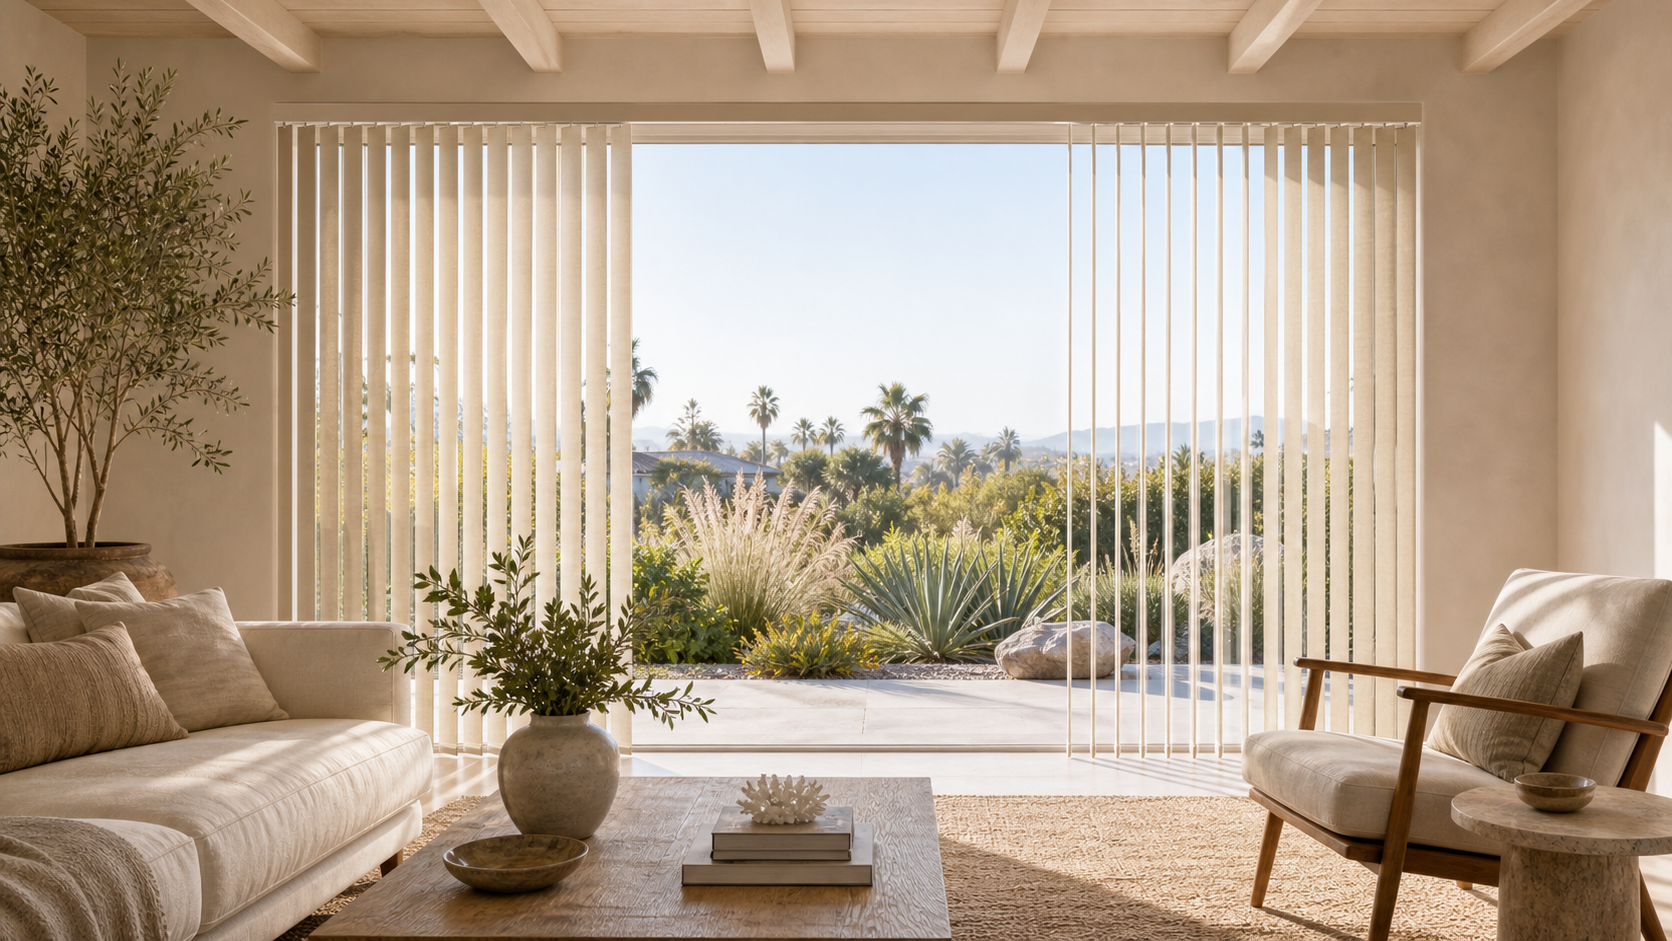
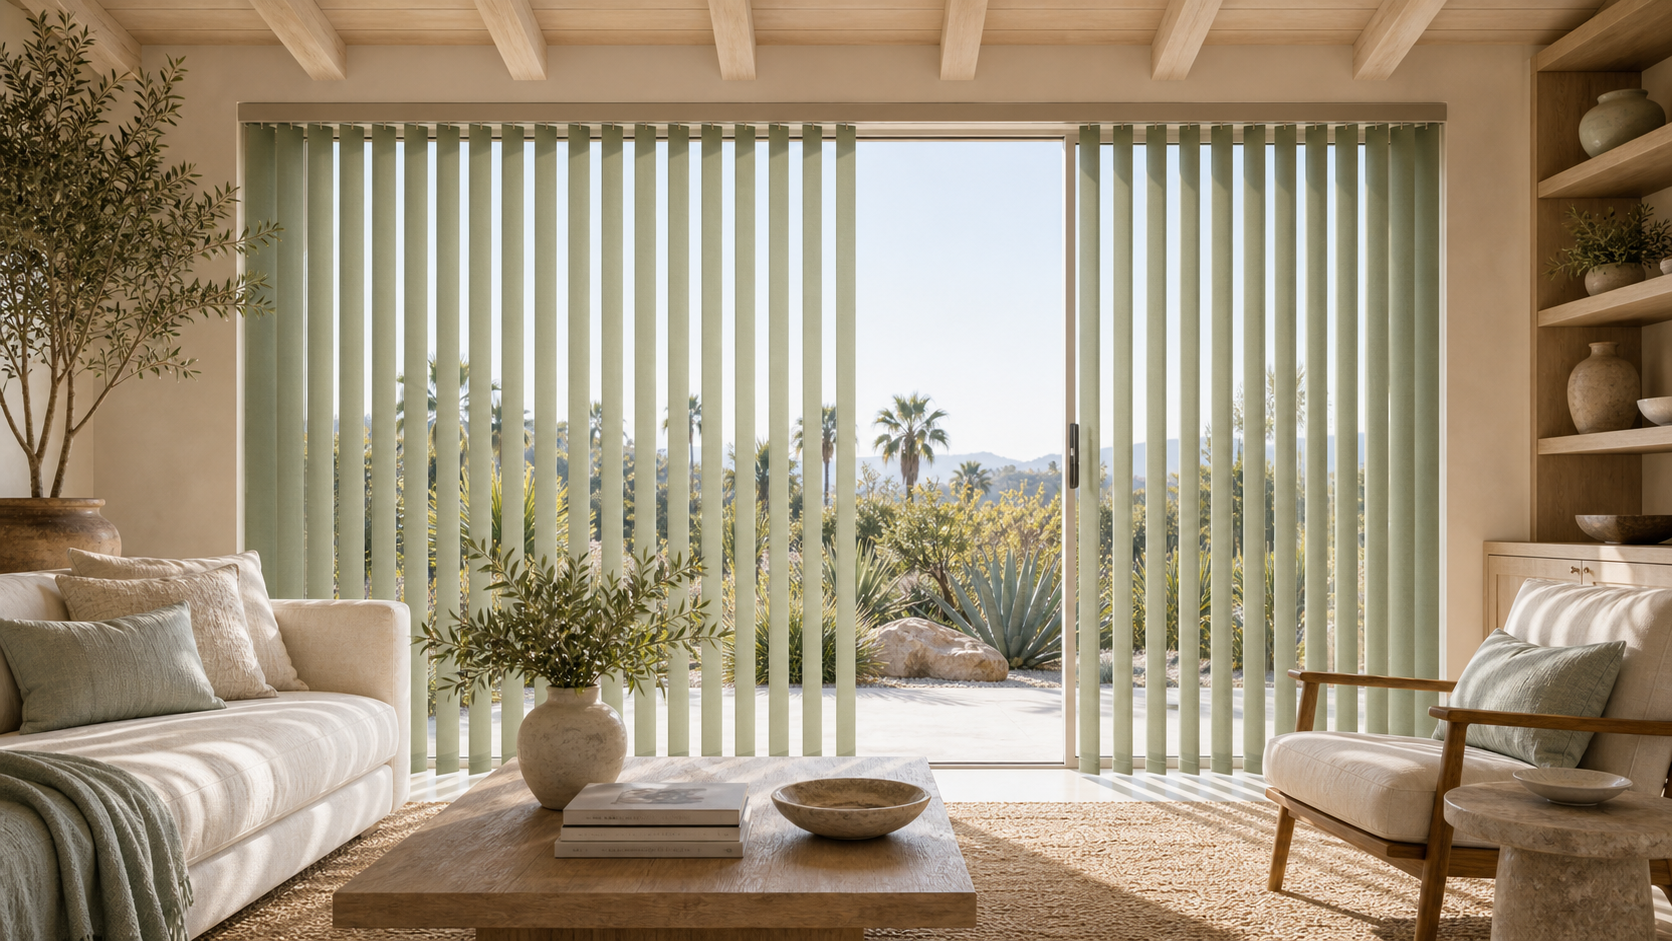
Stack homepage photo flow

diff --git a/src/components/PageSections.tsx b/src/components/PageSections.tsx
@@ -784,6 +784,8 @@ function HomePageSections({ page, commercialMode }: { page: SitePage; commercial
   const installedPhotos = commercialMode ? commercialInstalledPortfolioPhotos : installedPortfolioPhotos;
   const sections = commercialMode ? commercialHomeSections : page.sections;
   const heroSlides = commercialMode ? commercialHomeHeroSlides() : homeHeroSlides(page);
+  const heroMediaSlides = commercialMode ? heroSlides : heroSlides.slice(0, 1);
+  const residentialPhotoFlowSlides = commercialMode ? [] : heroSlides.slice(1);
   const heroTitle = commercialMode ? "Commercial shade systems for every workspace" : "Proudly serving Ventura County for the last 30 years";
   const heroCta = commercialMode ? "Schedule a Meeting" : "Book your Free In-home Consultation";
   const heroHref = commercialMode ? "/commercial-window-coverings/" : "/book-consultation/";
@@ -792,7 +794,7 @@ function HomePageSections({ page, commercialMode }: { page: SitePage; commercial
     <>
       <section className="home-editorial">
         <div className="home-editorial-panel">
-          <HomeHeroCarousel slides={heroSlides} />
+          <HomeHeroCarousel slides={heroMediaSlides} />
           <div className="home-hero-overlay">
             <h1 className="home-intro">{heroTitle}</h1>
             <div className="home-hero-actions">
@@ -804,45 +806,60 @@ function HomePageSections({ page, commercialMode }: { page: SitePage; commercial
         </div>
       </section>
 
-      <section className="portfolio-scroll" aria-label={commercialMode ? "805 Commercial portfolio scenes" : "805 Shutters portfolio scenes"}>
-        {stories.map((story, index) => (
-          <article
-            className={`portfolio-story-panel${story.tone === "bright" ? " portfolio-story-panel--bright" : ""}`}
-            key={story.title}
-          >
-            <div className="portfolio-story-media">
-              {story.video ? (
-                <video
-                  aria-label={story.imageAlt}
-                  autoPlay
-                  loop
-                  muted
-                  playsInline
-                  poster={story.image}
-                  preload={index === 0 ? "auto" : "metadata"}
-                >
-                  <source src={story.video} type="video/mp4" />
-                </video>
-              ) : (
-                <img
-                  src={story.image}
-                  alt={story.imageAlt}
-                  width={story.imageWidth}
-                  height={story.imageHeight}
-                  loading={index === 0 ? "eager" : "lazy"}
-                  decoding="async"
-                />
-              )}
-            </div>
-            <div className="portfolio-story-copy">
-              <p>{story.eyebrow}</p>
-              <h2>{story.title}</h2>
-              <span>{story.body}</span>
-              <Link href={story.href}>Explore {story.eyebrow}</Link>
-            </div>
-          </article>
-        ))}
-      </section>
+      {commercialMode ? (
+        <section className="portfolio-scroll" aria-label="805 Commercial portfolio scenes">
+          {stories.map((story, index) => (
+            <article
+              className={`portfolio-story-panel${story.tone === "bright" ? " portfolio-story-panel--bright" : ""}`}
+              key={story.title}
+            >
+              <div className="portfolio-story-media">
+                {story.video ? (
+                  <video
+                    aria-label={story.imageAlt}
+                    autoPlay
+                    loop
+                    muted
+                    playsInline
+                    poster={story.image}
+                    preload={index === 0 ? "auto" : "metadata"}
+                  >
+                    <source src={story.video} type="video/mp4" />
+                  </video>
+                ) : (
+                  <img
+                    src={story.image}
+                    alt={story.imageAlt}
+                    width={story.imageWidth}
+                    height={story.imageHeight}
+                    loading={index === 0 ? "eager" : "lazy"}
+                    decoding="async"
+                  />
+                )}
+              </div>
+              <div className="portfolio-story-copy">
+                <p>{story.eyebrow}</p>
+                <h2>{story.title}</h2>
+                <span>{story.body}</span>
+                <Link href={story.href}>Explore {story.eyebrow}</Link>
+              </div>
+            </article>
+          ))}
+        </section>
+      ) : (
+        <section className="home-photo-flow" aria-label="805 Shutters homepage photo flow">
+          {residentialPhotoFlowSlides.map((slide, index) => (
+            <figure className="home-photo-flow-item" key={slide.label || slide.image}>
+              <img
+                src={slide.image}
+                alt={slide.imageAlt}
+                loading={index < 2 ? "eager" : "lazy"}
+                decoding="async"
+              />
+            </figure>
+          ))}
+        </section>
+      )}
 
       <section className="installed-portfolio">
         <div className="content-wrap installed-portfolio-head">

diff --git a/src/components/HomeHeroCarousel.tsx b/src/components/HomeHeroCarousel.tsx
@@ -54,18 +54,6 @@ export function HomeHeroCarousel({ slides }: HomeHeroCarouselProps) {
   }, []);
 
   useEffect(() => {
-    if (slides.length < 2 || freezeOnFirstSlide) {
-      return;
-    }
-
-    const interval = window.setInterval(() => {
-      setActiveIndex((index) => (index + 1) % slides.length);
-    }, 5000);
-
-    return () => window.clearInterval(interval);
-  }, [freezeOnFirstSlide, slides.length]);
-
-  useEffect(() => {
     const videos = carouselRef.current?.querySelectorAll("video");
 
     videos?.forEach((video) => {

diff --git a/src/app/globals.css b/src/app/globals.css
@@ -1810,6 +1810,22 @@ body.commercial-mode .home-hero-actions .button.primary {
   color: rgba(255, 255, 255, 0.88);
 }
 
+.home-photo-flow {
+  display: grid;
+  background: #0d0c0a;
+}
+
+.home-photo-flow-item {
+  margin: 0;
+  background: #11100e;
+}
+
+.home-photo-flow-item img {
+  display: block;
+  width: 100%;
+  height: auto;
+}
+
 .installed-portfolio {
   padding: clamp(48px, 7vw, 86px) 0;
   background: var(--paper);

diff --git a/docs/ai-homepage-photo-prompts.md b/docs/ai-homepage-photo-prompts.md
@@ -21,10 +21,12 @@ Style for every image:
 - Leave clean center space for HTML overlay text.
 - Wide horizontal hero composition, 16:9 or wider.
 
-## Final Homepage Flow Assets
+## Final Homepage Photo Flow Assets
 
-Final hero-carousel assets live in `public/images/homepage-flow/` and are used
-in this exact residential homepage order:
+Final stacked photo-flow assets live in `public/images/homepage-flow/` and are
+used in this exact residential homepage order. The original home photo remains
+the top hero image; the remaining treatments stack below it with no timed photo
+rotation.
 
 | Order | Slide | File |
 | --- | --- | --- |
@@ -55,13 +57,13 @@ Existing AI source notes:
 New June 13, 2026 generated prompts:
 
 Vertical Blinds:
-Ultra realistic luxury editorial interior photography of a bright Ventura/coastal California living room with a wide sliding glass patio door and refined garden view. Elegant cream vertical blinds with fabric vanes, partially open so the vertical product structure is unmistakable. Wide horizontal 16:9 hero composition with clean center overlay space. Warm natural California daylight, warm neutrals, cream plaster, pale oak, soft linen. No text, logos, people, animals, watermarks, posters, or graphic layouts. Product must read as vertical blinds, not drapery or shutters.
+Ultra realistic luxury editorial interior photography of a bright Ventura/coastal California living room with a wide sliding glass patio door and refined garden view. Muted sage-green vertical blinds with fabric vanes, partially open so the vertical product structure is unmistakable. Wide horizontal 16:9 hero composition with clean center overlay space. Warm natural California daylight, warm neutrals, cream plaster, pale oak, soft linen. No text, logos, people, animals, watermarks, posters, or graphic layouts. Product must read as vertical blinds, not drapery or shutters.
 
 Mini Blinds:
-Ultra realistic luxury editorial interior photography of a refined Ventura/coastal California home office with tall windows and a distant garden or hillside view. Slim white aluminum mini blinds with narrow horizontal slats, tilted to filter sunlight; the narrow mini-blind scale must be clear. Wide horizontal 16:9 hero composition with clean center overlay space. Bright warm morning light with crisp slat shadows, warm neutrals, white blinds, oak desk, cream plaster. No text, logos, people, animals, watermarks, posters, or graphic layouts. Product must read as mini blinds, not faux wood blinds or shutters.
+Ultra realistic luxury editorial interior photography of a refined Ventura/coastal California home office with tall windows and a distant garden or hillside view. Slim soft blue-gray aluminum mini blinds with narrow horizontal slats, tilted to filter sunlight; the narrow mini-blind scale must be clear. Wide horizontal 16:9 hero composition with clean center overlay space. Bright warm morning light with crisp slat shadows, warm neutrals, oak desk, cream plaster. No text, logos, people, animals, watermarks, posters, or graphic layouts. Product must read as mini blinds, not faux wood blinds or shutters.
 
 Sheer Shades:
-Ultra realistic luxury editorial interior photography of an airy Ventura/coastal California living room with large windows and a soft garden view. Sheer shades with translucent fabric and soft horizontal vanes suspended between sheer layers, clearly visible and filtering daylight. Wide horizontal 16:9 hero composition with clean center overlay space. Glowing daylight, soft diffusion, warm whites, pale oak, linen, soft greenery. No text, logos, people, animals, watermarks, posters, or graphic layouts. Product must read as sheer shades, not roller shades or drapery.
+Ultra realistic luxury editorial interior photography of an airy Ventura/coastal California living room with large windows and a soft garden view. Sheer shades with subtle champagne-blush translucent fabric and soft horizontal vanes suspended between sheer layers, clearly visible and filtering daylight. Wide horizontal 16:9 hero composition with clean center overlay space. Glowing daylight, soft diffusion, warm whites, pale oak, linen, soft greenery. No text, logos, people, animals, watermarks, posters, or graphic layouts. Product must read as sheer shades, not roller shades or drapery.
 
 Panel Track Shades:
 Ultra realistic luxury editorial interior photography of a modern Ventura/coastal California living room with a broad sliding glass door opening to a patio and hillside garden. Wide sliding panel track shades with large vertical fabric panels on an overhead track, partially stacked to one side and partially covering the glass. Wide horizontal 16:9 hero composition with clean center overlay space. Warm coastal daylight, warm neutrals, cream fabric panels, pale oak, soft stone. No text, logos, people, animals, watermarks, posters, or graphic layouts. Product must read as panel track shades, not vertical blinds or drapery.
